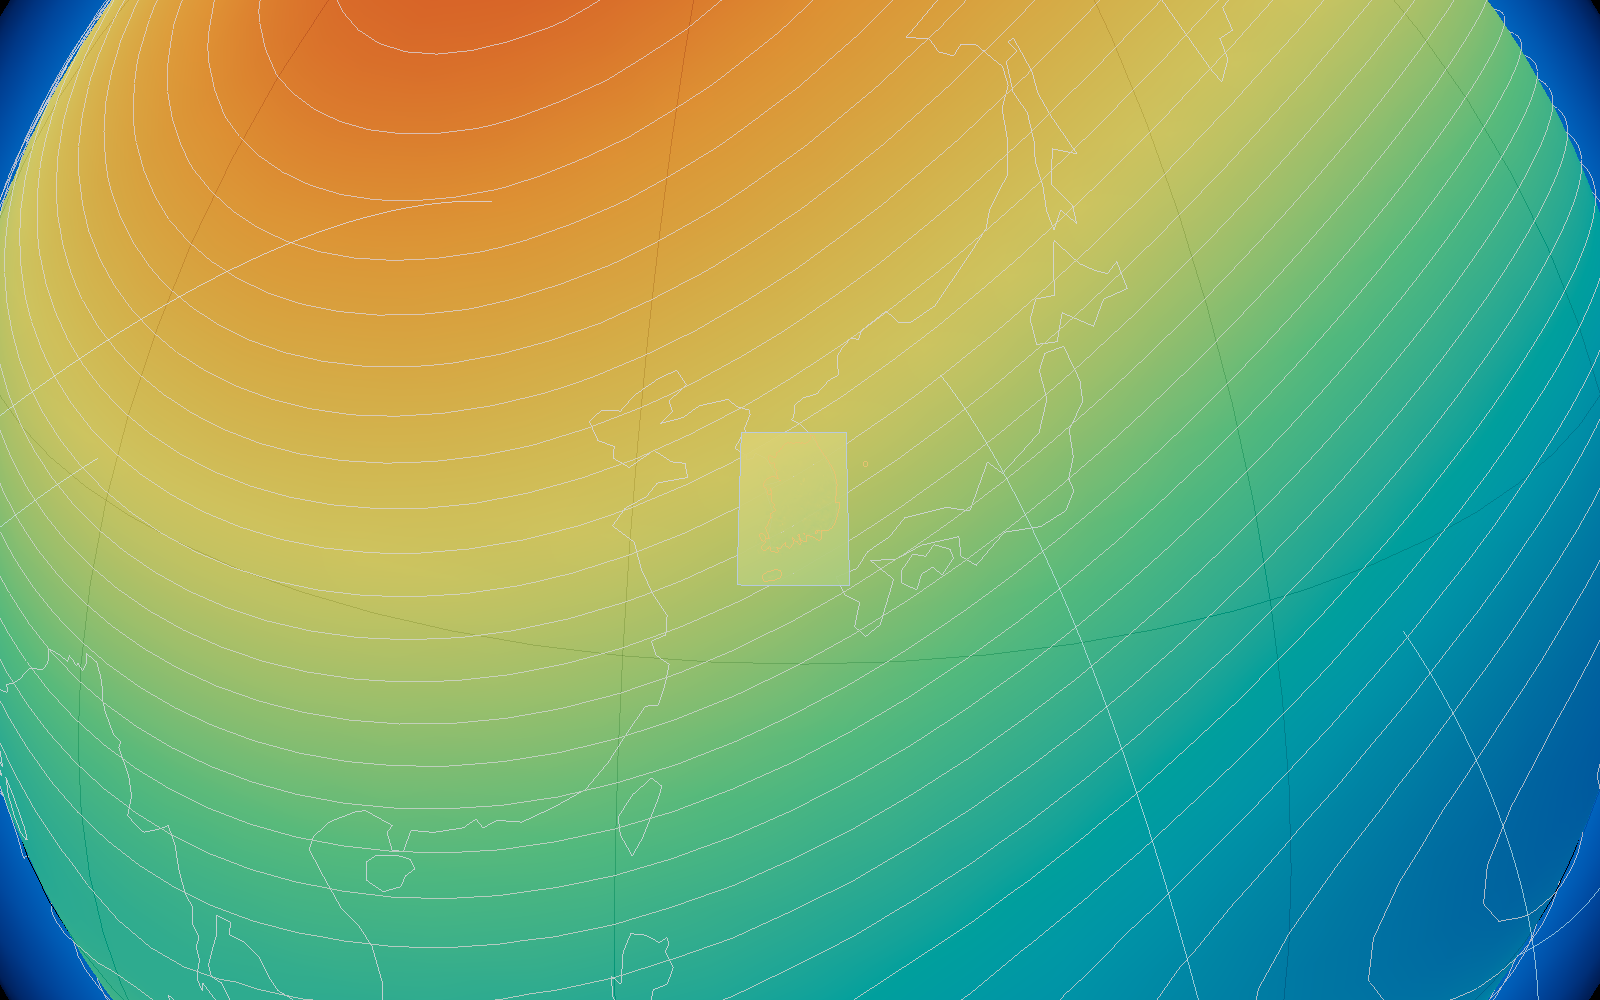
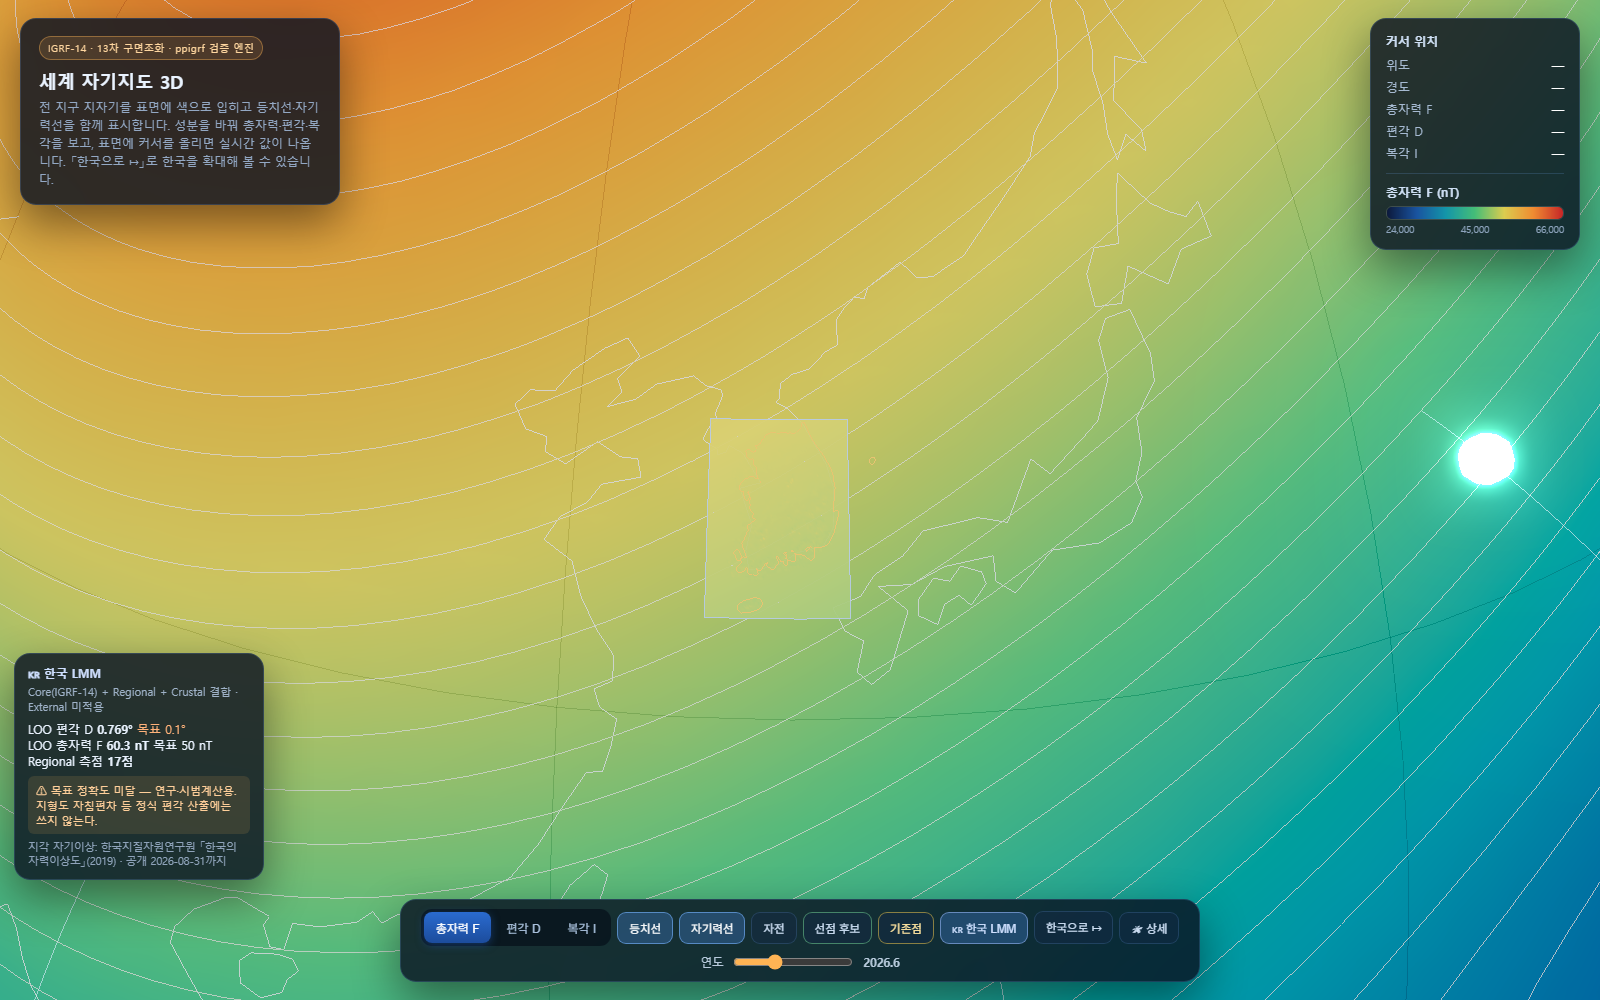
지구본 한국 LMM 패치 가시성 수정 — 국지 색범위 + 음영 정합 + 차이 모드
전역 색범위로 칠하니 밋밋한 사각형으로만 보였다. 원인 둘을 고쳤다.

1) 색범위 — F 전역 범위는 42,000 nT 폭인데 한국 변화폭은 약 3,700 nT 라 한 덩어리로
   뭉갠다. 패치는 자기 값 분포로 색범위를 다시 잡는다(2~98 백분위, 극단 배제).
   전역 범례와 척도가 다르므로 안내판에 범위를 표기한다.

2) 음영 — MeshBasicMaterial(무광)이라 패치만 밝게 떴다. 지구 셰이더와 같은
   col*(0.62+0.5*sh) 를 적용한 ShaderMaterial 로 교체.

그리고 표시 방식을 둘로 나눴다(안내판에서 전환).

  LMM 값      48,459 ~ 52,141 nT   남북 경사 + 지각 이상 얼룩
  LMM − IGRF  ±238 nT (0 중심)     지각 자기이상 구조 자체

차이 모드가 과학적으로 가장 선명하다 — 항공자력 자료 공백(해상)이 백색으로 드러나
자료 범위를 눈으로 확인할 수 있다. 다만 「값이 0」과 「자료 없음」이 구분되지 않아
lmm.html 처럼 빗금 처리하는 것은 검토로 남긴다.

diff --git a/docs/geomag_globe.html b/docs/geomag_globe.html
@@ -427,6 +427,28 @@ function lmmAt(lat,lon,year){
   };
 }
 
+// 패치 표시 방식 — 'value'(LMM 값) / 'diff'(LMM − IGRF)
+let LMMVIEW='value';
+let lmmRange=null;      // 이번에 쓴 색범위 [lo,hi] — 안내문에 그대로 보여준다
+
+// 전역 표면과 **같은 음영식**을 쓴다. 무광 재질이면 패치만 밝게 떠 보인다.
+// (지구 셰이더: col*(0.62+0.5*sh), sh=0.35+0.65*max(dot(n,L),0))
+const lmmMat=()=>new THREE.ShaderMaterial({
+  vertexColors:true, side:THREE.DoubleSide,
+  vertexShader:`varying vec3 vC; varying vec3 vP;
+    void main(){vC=color; vP=position;
+      gl_Position=projectionMatrix*modelViewMatrix*vec4(position,1.);}`,
+  fragmentShader:`varying vec3 vC; varying vec3 vP;
+    void main(){vec3 n=normalize(vP);
+      float sh=0.35+0.65*clamp(dot(n,normalize(vec3(6.,3.,4.))),0.,1.);
+      gl_FragColor=vec4(vC*(0.62+0.5*sh),1.0);}`
+});
+
+function quantile(sorted,q){
+  const i=(sorted.length-1)*q, lo=Math.floor(i), hi=Math.ceil(i);
+  return sorted[lo]+(sorted[hi]-sorted[lo])*(i-lo);
+}
+
 function buildLMM(year){
   lmmGroup.clear(); lmmMesh=null;
   if(!LMMDATA) return;
@@ -434,7 +456,9 @@ function buildLMM(year){
   const nx=Math.round((B.lon1-B.lon0)/st)+1, ny=Math.round((B.lat1-B.lat0)/st)+1;
   const geo=new THREE.BufferGeometry();
   const pos=new Float32Array(nx*ny*3), col=new Float32Array(nx*ny*3);
+  const val=new Float64Array(nx*ny);
   const idx=[];
+  // 1차: 좌표와 값
   for(let j=0;j<ny;j++){
     const lat=B.lat0+j*st;
     for(let i=0;i<nx;i++){
@@ -442,12 +466,30 @@ function buildLMM(year){
       const p=sph(lat,lon,1.004);              // 지표 바로 위 (z-fighting 방지)
       pos[k*3]=p.x; pos[k*3+1]=p.y; pos[k*3+2]=p.z;
       const v=lmmAt(lat,lon,year);
-      const c=colorAt(MODE, MODE==='F'?v.F:MODE==='D'?v.D:v.I);
-      // ⚠ 정점색은 **작업 색공간(선형)** 으로 넣어야 한다. colorAt 이 주는 값은
-      //   sRGB(0~255) 라 그대로 넣으면 밝게 떠서 전역 표면과 톤이 어긋난다.
-      _c.setRGB(c[0]/255,c[1]/255,c[2]/255,THREE.SRGBColorSpace);
-      col[k*3]=_c.r; col[k*3+1]=_c.g; col[k*3+2]=_c.b;
+      const lv = MODE==='F'?v.F:MODE==='D'?v.D:v.I;
+      if(LMMVIEW==='diff'){
+        const e=IGRF.igrfElements(lat,lon,0,year);
+        const ev = MODE==='F'?e.F:MODE==='D'?e.D:e.I;
+        // 각도는 분(′)으로 봐야 눈에 들어온다
+        val[k]=(lv-ev)*(MODE==='F'?1:60);
+      } else val[k]=lv;
     }
+  }
+  // ⚠ 전역 색범위(F 는 42,000 nT 폭)로 칠하면 한국 변화폭이 1/20 이라 한 덩어리로
+  //   뭉갠다. 패치는 **자기 값 분포로 색범위를 다시 잡는다**(2~98 백분위로 극단 배제).
+  //   전역 범례와 다른 척도이므로 안내문에 범위를 반드시 표기한다.
+  const srt=Array.from(val).sort((a,b)=>a-b);
+  let lo=quantile(srt,0.02), hi=quantile(srt,0.98);
+  if(LMMVIEW==='diff'){const m=Math.max(Math.abs(lo),Math.abs(hi))||1; lo=-m; hi=m;}
+  if(hi-lo<1e-9) hi=lo+1;
+  lmmRange=[lo,hi];
+  const ramp2=(t)=>ramp(t, LMMVIEW==='diff'?CM_DIV:(MODE==='F'?CM_F:CM_DIV));
+  // 2차: 색
+  for(let k=0;k<nx*ny;k++){
+    const c=ramp2((val[k]-lo)/(hi-lo));
+    // 정점색은 작업 색공간(선형)으로. colorAt/ramp 는 sRGB(0~255) 를 준다.
+    _c.setRGB(c[0]/255,c[1]/255,c[2]/255,THREE.SRGBColorSpace);
+    col[k*3]=_c.r; col[k*3+1]=_c.g; col[k*3+2]=_c.b;
   }
   for(let j=0;j<ny-1;j++)for(let i=0;i<nx-1;i++){
     const a=j*nx+i,b=a+1,c=a+nx,d=c+1; idx.push(a,c,b, b,c,d);}
@@ -455,8 +497,7 @@ function buildLMM(year){
   geo.setAttribute('color',new THREE.BufferAttribute(col,3));
   geo.setIndex(idx); geo.computeVertexNormals();
   // DoubleSide — FrontSide 면 카메라 각도에 따라 뒷면이 컬링돼 사라진다
-  lmmMesh=new THREE.Mesh(geo,new THREE.MeshBasicMaterial(
-    {vertexColors:true,side:THREE.DoubleSide,transparent:true,opacity:0.96}));
+  lmmMesh=new THREE.Mesh(geo,lmmMat());
   lmmGroup.add(lmmMesh);
   // 패치 경계선 — 어디까지가 LMM 인지 눈에 보이게
   const ring=[];
@@ -469,7 +510,8 @@ function buildLMM(year){
   lmmGroup.visible=lmmOn;
 }
 
-function lmmApply(){ if(lmmOn && LMMDATA) buildLMM(+yearEl.value); }
+function lmmApply(){ if(lmmOn && LMMDATA){ buildLMM(+yearEl.value);
+  if(document.getElementById('siteinfo').style.display!=='none') showLMMInfo(); } }
 
 // 모듈 스코프라 콘솔에서 안 보인다 → 상태 점검용 훅 (검증에 쓴다)
 window.__lmm=()=>({on:lmmOn,loaded:!!LMMDATA,vis:lmmGroup.visible,
@@ -532,6 +574,18 @@ function showLMMInfo(){
   el.innerHTML="<b style='color:#cfe0ff'>🇰🇷 한국 LMM</b>"
     +"<div style='color:#9fb2c8;font-size:11px;margin:3px 0 7px'>"
     +"Core(IGRF-14) + Regional + Crustal 결합 · External 미적용</div>"
+    +"<div style='display:flex;gap:5px;margin:0 0 7px'>"
+    +"<button id='lmmVal' style='flex:1;font-size:11px;padding:5px 0;border-radius:7px;cursor:pointer;"
+    +"border:1px solid rgba(120,175,255,.45);background:"
+    +(LMMVIEW==='value'?"rgba(79,150,255,.35)":"rgba(20,40,72,.4)")+";color:#e8f1ff'>LMM 값</button>"
+    +"<button id='lmmDif' style='flex:1;font-size:11px;padding:5px 0;border-radius:7px;cursor:pointer;"
+    +"border:1px solid rgba(120,175,255,.45);background:"
+    +(LMMVIEW==='diff'?"rgba(79,150,255,.35)":"rgba(20,40,72,.4)")+";color:#e8f1ff'>LMM − IGRF</button>"
+    +"</div>"
+    +(lmmRange?("<div style='font-size:11px;color:#9fb2c8;margin-bottom:6px'>"
+      +"패치 색범위 <b style='color:#dce9ff'>"+fmtR(lmmRange[0])+" ~ "+fmtR(lmmRange[1])+"</b>"
+      +"<br><span style='color:#8fa3ba'>전역 범례와 다른 척도 — 한국 변화폭에 맞춰 다시 잡음"
+      +"</span></div>"):"")
     +(loo?("<div>LOO 편각 D <b>"+loo.D.toFixed(3)+"°</b> "
       +"<span style='color:#ffb27a'>목표 0.1°</span></div>"
       +"<div>LOO 총자력 F <b>"+loo.F.toFixed(1)+" nT</b> "
@@ -551,6 +605,16 @@ function showLMMInfo(){
         +"현재 Core+Regional 만 계산합니다.</div>"));
   el.style.display='block'; el.style.left='14px'; el.style.bottom='120px';
   el.style.top='auto'; el.style.width='250px';
+  const set=v=>{ if(LMMVIEW===v) return; LMMVIEW=v; buildLMM(+yearEl.value); showLMMInfo(); };
+  el.querySelector('#lmmVal').onclick=()=>set('value');
+  el.querySelector('#lmmDif').onclick=()=>set('diff');
+}
+
+// 패치 색범위 표기 — 성분과 표시방식에 따라 단위가 달라진다
+function fmtR(v){
+  if(LMMVIEW==='diff') return (v>=0?'+':'')+v.toFixed(MODE==='F'?0:1)
+                              +(MODE==='F'?' nT':'′');
+  return MODE==='F'?Math.round(v).toLocaleString()+' nT':v.toFixed(2)+'°';
 }
 const tgC=document.getElementById('tgContour'),tgL=document.getElementById('tgLines'),tgS=document.getElementById('tgSpin');
 tgC.onclick=()=>{showContour=!showContour;tgC.classList.toggle('on',showContour);contourGroup.visible=showContour;};

diff --git a/CLAUDE.md b/CLAUDE.md
@@ -958,9 +958,24 @@ CYG 로 제거 가능한 일변동은 편각 6.7′ 인데 미설명 잔차가 3
 
 ⚠ **메시는 DoubleSide** — FrontSide 면 카메라 각도에 따라 뒷면이 컬링돼 사라진다.
 
-⚠ **전역 색범위에서는 LMM−IGRF 가 거의 안 보인다** — 한국에서 차이는 약 −150 nT 인데
-F 색범위는 42,000 nT 폭이라 1/280 이다. 패치의 값어치는 **색이 아니라 커서 수치**에 있다.
-차이를 눈으로 보려면 별도 발산형 램프의 「LMM−IGRF」 모드가 필요하다(검토 항목).
+⚠ **패치는 전역 색범위를 쓰면 안 된다** — F 전역 범위는 42,000 nT 폭인데 한국 변화폭은
+약 3,700 nT 라 한 덩어리로 뭉갠다(초기 구현의 실제 증상: 밋밋한 사각형). 패치는 **자기 값
+분포로 색범위를 다시 잡는다**(2~98 백분위). 전역 범례와 척도가 다르므로 안내문에 범위를
+반드시 표기한다.
+
+**두 가지 표시 방식** — 안내판에서 전환한다.
+
+| 방식 | 색범위(예) | 보이는 것 |
+|---|---|---|
+| **LMM 값** | 48,459 ~ 52,141 nT | 남북 경사 + 지각 이상 얼룩 |
+| **LMM − IGRF** | ±238 nT (발산형, 0 중심) | **지각 자기이상 구조 자체**. 해상은 자료가 없어 0(백색) |
+
+「LMM−IGRF」가 과학적으로 가장 선명하다 — 항공자력 자료 공백(해상)이 백색으로 드러나
+자료 범위를 눈으로 확인할 수 있다.
+
+⚠ **패치도 전역 표면과 같은 음영식을 써야 한다** — `MeshBasicMaterial`(무광)이면 패치만
+밝게 떠 보인다. 지구 셰이더와 동일한 `col*(0.62+0.5*sh)`, `sh=0.35+0.65*max(dot(n,L),0)` 을
+적용한 `ShaderMaterial` 로 칠한다.
 
 **3단계 완료 — 선점/기존점 레이어**: 「선점 후보」(103, 등급 A/B/C 색 구 마커) · 「기존점」
 (24, 금색 팔면체) 토글. 켜면 자동으로 한국 확대(`flyKorea`), 마커 클릭 시 raycast → 정보

diff --git a/REVIEW_NOTES.md b/REVIEW_NOTES.md
@@ -77,14 +77,15 @@ EOF 모드로 분해하고, 모드별 계수를 측점 위치로 투영해 V̂(r
 
 ---
 
-## 6. 지구본 — 「LMM − IGRF」 발산 모드
+## 6. 지구본 패치 가시성 — **해결** (2026-08-19)
 
-전역 F 색범위(42,000 nT 폭)에서 LMM−IGRF(한국 약 −150 nT)는 1/280 이라 색으로 안 보인다.
-현재 패치의 값어치는 커서 수치에 있다. 차이를 눈으로 보려면 별도 발산형 램프의
-전용 모드가 필요하다.
+전역 색범위로 칠해 밋밋한 사각형으로만 보이던 문제를 고쳤다. ① 패치 값 분포로 색범위를
+다시 잡고(2~98 백분위) ② 전역 표면과 같은 음영식을 적용했으며 ③ 「LMM 값 / LMM−IGRF」
+전환을 넣었다. 차이 모드(±238 nT)에서 지각 이상 구조가 선명하게 드러난다.
 
-또한 항공자력 자료 공백 구간(`lmmAt().gap === true`)은 crustal 0 이 적용되는데, 현재
-패치는 이를 구분해 표시하지 않는다. `lmm.html` 은 45° 빗금으로 명시한다 — 동일 처리 검토.
+**남은 것** — 항공자력 자료 공백(해상)이 차이 모드에서 0(백색)으로 나오는데, 값이 0 인
+것과 자료가 없는 것이 구분되지 않는다. `lmm.html` 은 45° 빗금으로 명시한다 — 동일 처리 검토.
+(`lmmAt().gap === true` 로 판별 가능하다)
 
 ---
 
